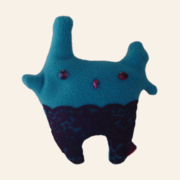
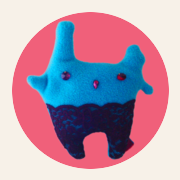
Polish the line and the phone layout
Bring the line in only after the title has landed and the starting
mawilos have walked in. Let the lower line sag a little more on phones.
Ring the photo of the mawilo being handled or pointed at in turquoise,
next to the watermelon ring of a waiting arrival.

Make the title a little bigger on phones and hide the hint text there.
Make the favicon brighter, with Lacey on a watermelon circle.

diff --git a/main.js b/main.js
@@ -217,17 +217,19 @@ function layoutLine() {
   MAWILO_DATA.forEach((m, i) => {
     const row = Math.floor(i / perRow);
     const top = 16 + row * rowGap;
-    if (i % perRow === 0) d += `M 0 ${top} Q ${width / 2} ${top + sag * 2} ${width} ${top} `;
+    // The lower line sags a little more than the upper one.
+    const rowSag = sag * (1 + row * 0.5);
+    if (i % perRow === 0) d += `M 0 ${top} Q ${width / 2} ${top + rowSag * 2} ${width} ${top} `;
     const x = start + slot * ((i % perRow) + 0.5);
     const t = x / width;
-    const y = (1 - t) ** 2 * top + 2 * (1 - t) * t * (top + sag * 2) + t ** 2 * top;
+    const y = (1 - t) ** 2 * top + 2 * (1 - t) * t * (top + rowSag * 2) + t ** 2 * top;
     const button = polaroids.get(m.file);
     button.style.left = `${x}px`;
     button.style.top = `${y - 4}px`;
     button.style.width = `${photo}px`;
     button.style.setProperty("--photo", `${photo}px`);
   });
-  lineHeight = 16 + (rows - 1) * rowGap + sag + photo * 1.22 + 12;
+  lineHeight = 16 + (rows - 1) * rowGap + sag * (1 + (rows - 1) * 0.5) + photo * 1.22 + 12;
   document.documentElement.style.setProperty("--line-h", `${lineHeight}px`);
   lineInner.style.width = `${width}px`;
   stringPath.setAttribute("d", d.trim());
@@ -597,7 +599,9 @@ function enableDrag(f) {
     f.el.classList.toggle("edge-zone", fullyOnScreen(f) && pointerZone(f, event) > DRAG_ZONE);
   });
   f.el.addEventListener("pointerleave", () => {
-    if (!f.dragging) f.el.classList.remove("edge-zone");
+    if (f.dragging) return;
+    f.el.classList.remove("edge-zone");
+    polaroids.get(f.name)?.classList.remove("active");
   });
 
   // Greet a mouse that comes over, at most once every 1.5 seconds.
@@ -605,6 +609,7 @@ function enableDrag(f) {
   f.el.addEventListener("pointerenter", (event) => {
     if (reducedMotion || event.pointerType !== "mouse" || f.dragging) return;
     if (f.state !== "resident" && f.state !== "waiting") return;
+    polaroids.get(f.name)?.classList.add("active");
     if (performance.now() - lastGreeting < 1500) return;
     lastGreeting = performance.now();
     playMove(f, pick(["wiggle", "hop"]));
@@ -651,6 +656,7 @@ function enableDrag(f) {
     centreX = box.left + box.width / 2;
     centreY = box.top + box.height / 2;
     startAngle = Math.atan2(event.clientY - centreY, event.clientX - centreX);
+    polaroids.get(f.name)?.classList.add("active");
     f.fromEdge = !fullyOnScreen(f);
     mode = !f.fromEdge && pointerZone(f, event) > DRAG_ZONE ? "turn" : "drag";
     f.el.classList.add(mode === "turn" ? "turning" : "lifted");
@@ -690,6 +696,7 @@ function enableDrag(f) {
     tilt = 0;
     f.el.style.setProperty("--tilt", "0deg");
     f.el.classList.remove("lifted", "turning", "from-edge");
+    if (!f.el.matches(":hover")) polaroids.get(f.name)?.classList.remove("active");
     f.fromEdge = false;
 
     if (f.pinched) {
@@ -969,7 +976,6 @@ async function intro(onStage, layout) {
   await wait(650);
   carrying = false;
   title.classList.add("floating");
-  document.body.classList.add("line-shown");
   const top = titleRestingPlace(title);
   moveTitle(title, top.x, top.y);
   title.firstElementChild.animate(
@@ -1026,7 +1032,7 @@ async function start() {
   offstage = shuffle(MAWILO_DATA.map((m) => m.file).filter((n) => !onStage.includes(n)));
   if (hasDragged) hint.classList.add("done");
   await intro(onStage, layout);
-  document.body.classList.add("ready");
+  document.body.classList.add("ready", "line-shown");
   startArrivals();
   if (!reducedMotion) startIdleMoves();
 }

diff --git a/style.css b/style.css
@@ -31,7 +31,7 @@ body {
   top: 0;
   margin: 0;
   font-family: "Slackey", "Outfit", system-ui, sans-serif;
-  font-size: clamp(62px, 13.5vw, 176px);
+  font-size: clamp(70px, 13.5vw, 176px);
   font-weight: 400;
   line-height: 1;
   letter-spacing: 0.01em;
@@ -173,6 +173,18 @@ body {
   to {
     transform: rotate(calc(var(--pr, 0deg) + 3deg));
   }
+}
+
+/* The photo of the mawilo being handled or pointed at is ringed in
+   turquoise and lifts a little. */
+.polaroid.active .polaroid-frame {
+  box-shadow:
+    0 0 0 3px var(--turquoise),
+    0 5px 10px rgb(59 36 22 / 0.22);
+  translate: 0 3px;
+  transition:
+    box-shadow 200ms ease,
+    translate 200ms ease;
 }
 
 .polaroid:focus-visible .polaroid-frame {
@@ -344,6 +356,12 @@ body {
 }
 
 /* The hint drops below the screen after the first drag. */
+@media (max-width: 640px), (hover: none) {
+  .hint {
+    display: none;
+  }
+}
+
 .hint.done {
   transform: translateY(60px);
 }
